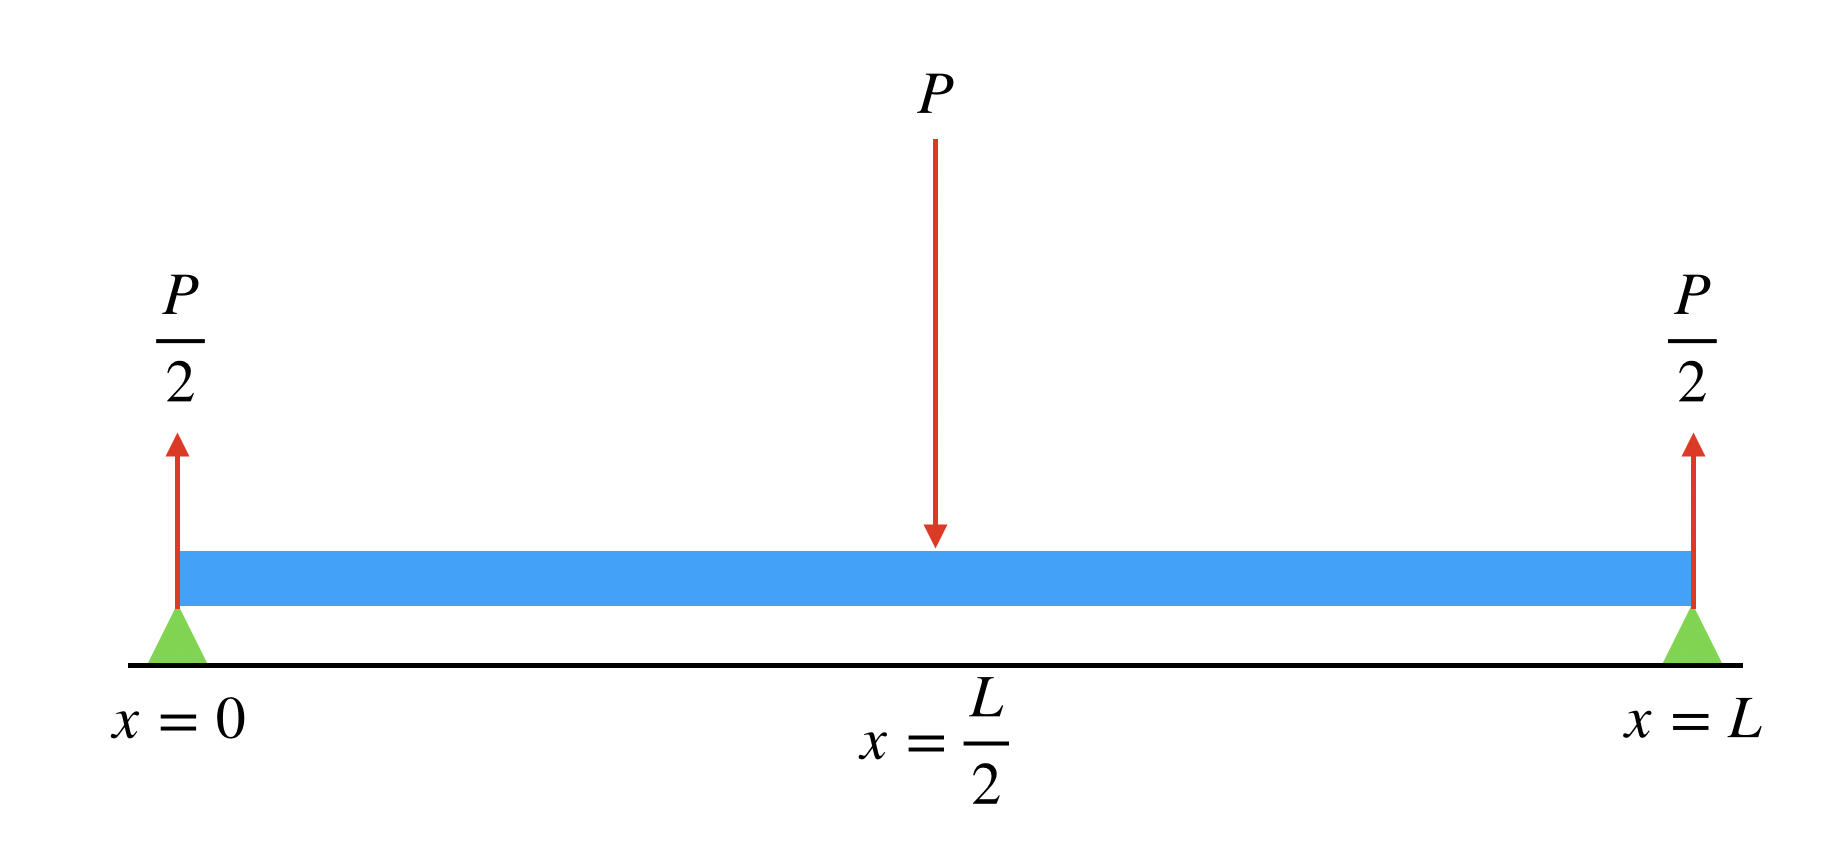
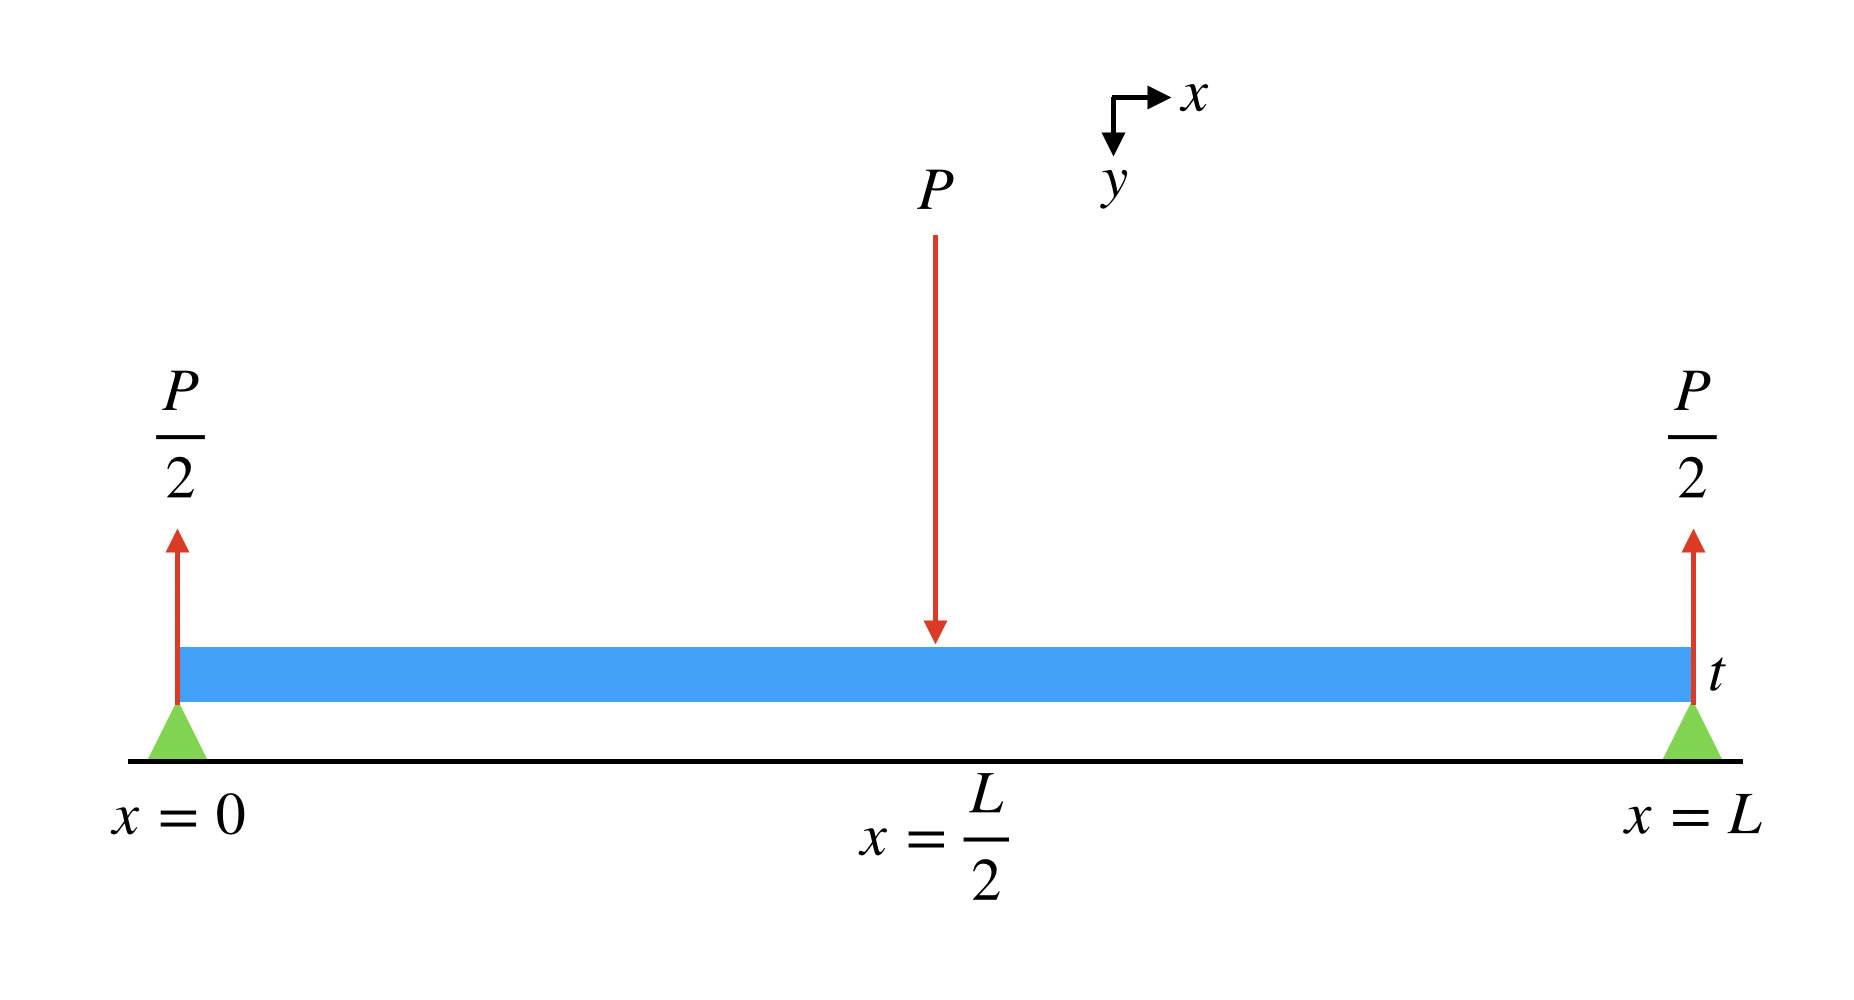
Update HW 4 solutions

Changed region(s): [[0.0624, 0.1519, 0.9677, 0.9416], [0.5931, 0.0911, 0.6555, 0.1519], [0.4995, 0.0911, 0.5307, 0.1215]]

diff --git a/HW 4/hw4 solutions.tex b/HW 4/hw4 solutions.tex
@@ -203,32 +203,15 @@ If the I-beam is simply supported at both ends at $x=0$, $x=L$, and a load $P$ i
 	      \textbf{Solution:}
 	      \begin{figure}[h]
 		      \centering
-		      \includegraphics[width=0.6\linewidth]{images/support2}
+		      \includegraphics[width=0.6\linewidth]{images/support}
 		      \caption{Shear and moment diagram for a simply supported beam with a concentrated load at mid-span. Taken from \url{https://en.wikipedia.org/wiki/Bending_moment}.}
 		      \label{fig:support}
 	      \end{figure}
-	      Assume $P$ is pointing toward $+y$ direction.
-	      Because of symmetry, we know that each end provides $\frac{ P }{ 2 }$ support toward $-y$ direction, as figure \ref{fig:support}
-	      shows. Take $x = 0$ as the reference point.
-	      So the bending moment follows
-	      \begin{multline}
-		      \bm{M}(x) = \sum_{i} \bm{r}_{i} \times \bm{F}_{i} = M_z(x) \hat{\bm{z}}\\
-		      = \begin{cases}
-			      -x \frac{ P }{ 2 } \hat{\bm{z}},                                                                                        & 0 \le x \le \frac{L}{2},     \\
-			      -\Big( - \big( x - \frac{ L }{ 2 } \big) P + \frac{ P }{ 2 }x \Big)\hat{\bm{z}} = -\frac{ P }{ 2 } (L - x)\hat{\bm{z}}, & \frac{ L }{ 2 } \le x \le L,
-		      \end{cases}
-	      \end{multline}
-	      where $\hat{\bm{z}}$ is the unit vector along $+z$ direction.
-	      Its maximum reaches at $x = \frac{ L }{ 2 }$, where $M_\text{max} = \frac{ P L }{ 4 }$.
-
-	      We will have the same result for $P$ toward $+z$ direction, based on the symmetry.
-	      \begin{equation}
-		      \bm{M}'(x) = M_y(x) \hat{\bm{y}}
-		      = \begin{cases}
-			      -x \frac{ P }{ 2 } \hat{\bm{y}},      & 0 \le x \le \frac{L}{2},     \\
-			      -\frac{ P }{ 2 } (L - x)\hat{\bm{y}}, & \frac{ L }{ 2 } \le x \le L,
-		      \end{cases}
-	      \end{equation}
+	      For simple support, there is no shear force.
+	      Zero shear $\sigma_{xy}$ implies constant bending moment $M_z$ throughout the beam, denoted as
+	      $M$ here. (This situation is known as ``pure bending".)
+	      It is the same for $z$ direction loading by symmetry, so $M_y = M$.
+	      
 
 	\item For Young's modulus $E$, what will be the curvature of the beam if the load is placed in
 	      \begin{enumerate}[(b1)]
@@ -243,14 +226,14 @@ If the I-beam is simply supported at both ends at $x=0$, $x=L$, and a load $P$ i
 		            \begin{equation}
 			            \begin{split}
 				            \bigg| \frac{ \partial^2 z }{ \partial  x^2} \bigg| &= \frac{ M_y }{ E I_y }\\
-				            &= \frac{ M(x) }{ E  \big( t \frac{ W^3 }{ 6 } + W \frac{ t^3 }{ 12 } \big)}.
+				            &= \frac{ M }{ E  \big( t \frac{ W^3 }{ 6 } + W \frac{ t^3 }{ 12 } \big)}.
 			            \end{split}
 		            \end{equation}
 		      \item Based on the same reason,
 		            \begin{equation}
 			            \begin{split}
 				            \bigg| \frac{ \partial^2 y }{ \partial x^2 } \bigg| &= \frac{ M_z }{ E I_z } \\
-				            &= \frac{ M(x) }{ E \big( \frac{t^3 W}{6} + \frac{4 t W^3}{3} \big)}.
+				            &= \frac{ M }{ E \big( \frac{t^3 W}{6} + \frac{4 t W^3}{3} \big)}.
 			            \end{split}
 		            \end{equation}
 	      \end{enumerate}
@@ -270,11 +253,16 @@ If the I-beam is simply supported at both ends at $x=0$, $x=L$, and a load $P$ i
 	      \end{align}
 	      So
 	      \begin{align}
-		      | \sigma_y | & = E y \bigg| \frac{ \partial^2 y }{ \partial x^2 } \bigg| = y \frac{ M(x) }{ \big( \frac{t^3 W}{6} + \frac{4 t W^3}{3} \big)},        \\
-		      | \sigma_z | & = E z \bigg| \frac{ \partial^2 z }{ \partial  x^2} \bigg| = z \frac{ M(x) }{ \big( t \frac{ W^3 }{ 6 } + W \frac{ t^3 }{ 12 } \big)}.
+		      | \sigma_y | & = E y \bigg| \frac{ \partial^2 y }{ \partial x^2 } \bigg| = y \frac{ M }{ \big( \frac{t^3 W}{6} + \frac{4 t W^3}{3} \big)},        \\
+		      | \sigma_z | & = E z \bigg| \frac{ \partial^2 z }{ \partial  x^2} \bigg| = z \frac{ M }{ \big( t \frac{ W^3 }{ 6 } + W \frac{ t^3 }{ 12 } \big)}.
 	      \end{align}
-	      \emph{Ceteris paribus},
-	      the maximum values of $\sigma_y$ and $\sigma_z$ reach when $M(x) = M_\text{max} = \frac{ P L }{ 4 }$.
+	      The maxima $|\sigma_y|$ and $|\sigma_z|$ reach when $|y|$ and $|z|$ are at their maxima.
+	      Since the neutral axis must be at the midpoint of the beam,
+	      $-\frac{ t }{ 2 } \le y \le \frac{ t }{ 2 }$, $-\frac{ W }{ 2 } \le z \le \frac{ W }{ 2 }$. Thus,
+	      \begin{align}
+	      | \sigma_y |_\text{max} & = \frac{ t }{ 2 } \frac{ M }{ \big( \frac{t^3 W}{6} + \frac{4 t W^3}{3} \big)},        \\
+	      | \sigma_z |_\text{max} & = \frac{ W }{ 2 } \frac{ M }{ \big( t \frac{ W^3 }{ 6 } + W \frac{ t^3 }{ 12 } \big)}.
+	      \end{align}
 \end{enumerate}
 
 % \bibliographystyle{unsrt}
